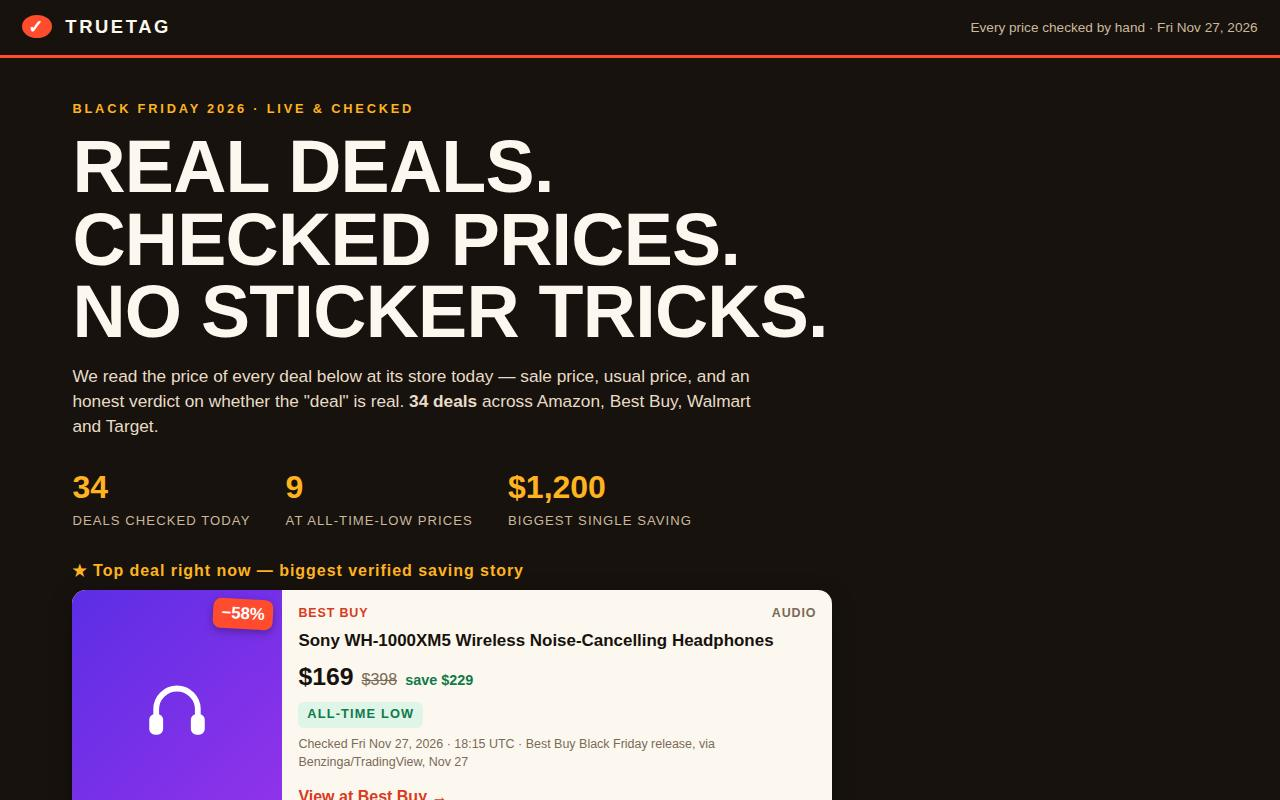
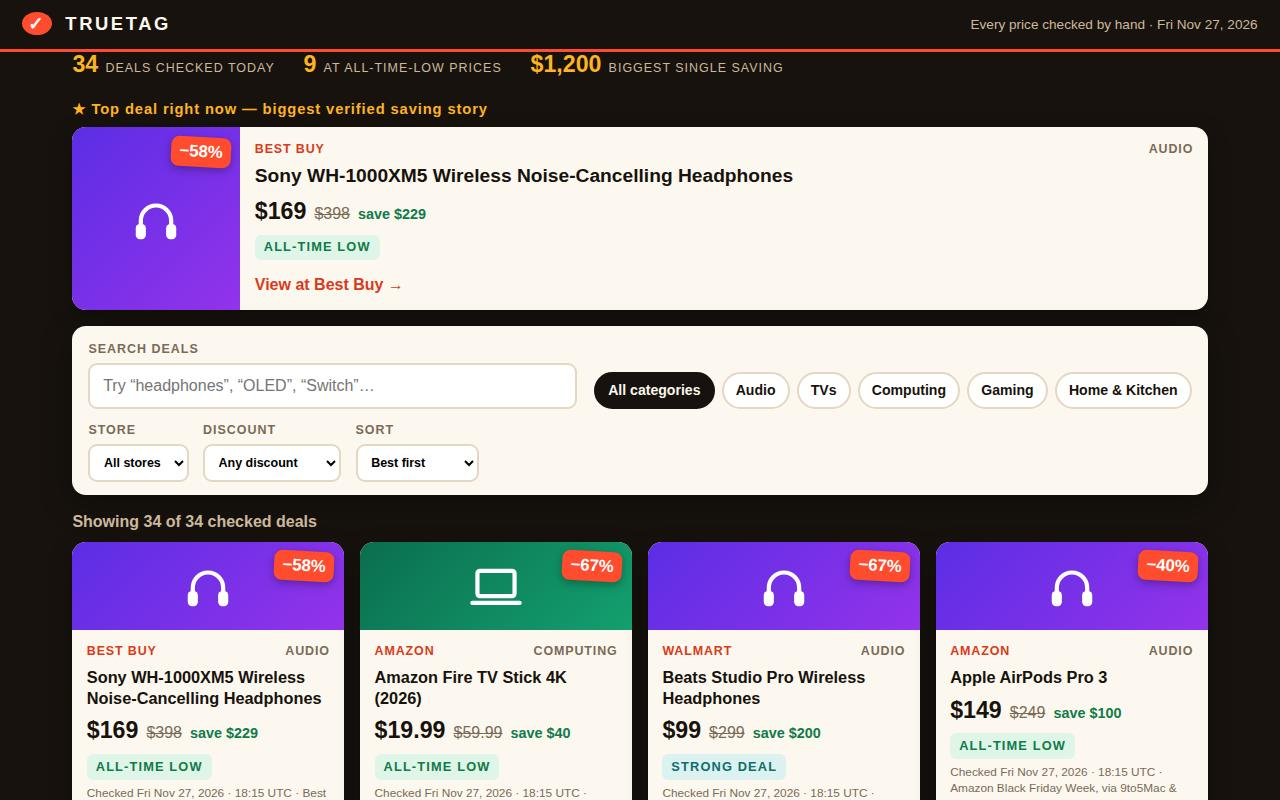
TrueTag: compact hero and denser cards so the screenshots show the finder
The standing cover showed one half-cut deal card under a giant hero; the
judge reads the entry mostly through its screenshots. This pass shrinks
the hero to two lines, makes the spotlight a slim banner, densifies the
cards, and reframes the shots: cover shows the spotlight plus a full row
of deals and the controls, the filtered shot frames the working filters
over their results, and the phone shot shows the controls and a complete
card. All 34 deals, prices, links, check times and verdicts unchanged;
first load 12,827 B gzip-9. SELF-CHECK.md grades every judge criterion.

diff --git a/app/style.css b/app/style.css
@@ -35,7 +35,7 @@ a { color: var(--coral-dark); }
 
 .topbar {
   display: flex; justify-content: space-between; align-items: center; gap: 1rem;
-  padding: 0.9rem 1.4rem; background: var(--ink); color: var(--paper);
+  padding: 0.7rem 1.4rem; background: var(--ink); color: var(--paper);
   border-bottom: 3px solid var(--coral); position: sticky; top: 0; z-index: 5;
 }
 .brand { color: var(--paper); text-decoration: none; font-weight: 900; letter-spacing: 0.14em; font-size: 1.15rem; }
@@ -44,25 +44,28 @@ a { color: var(--coral-dark); }
 
 main { max-width: 1180px; margin: 0 auto; padding: 0 1.4rem; }
 
-.hero { color: var(--paper); padding: 2.6rem 0 1.6rem; }
-.hero-kicker { color: var(--gold); font-weight: 800; letter-spacing: 0.22em; font-size: 0.8rem; margin: 0 0 0.8rem; }
+.hero { color: var(--paper); padding: 1.1rem 0 0.85rem; }
+.hero-kicker { color: var(--gold); font-weight: 800; letter-spacing: 0.22em; font-size: 0.8rem; margin: 0 0 0.55rem; }
 .hero h1 {
-  font-size: clamp(2.6rem, 7vw, 4.6rem); line-height: 0.98; margin: 0 0 1rem;
+  font-size: clamp(1.9rem, 4vw, 2.75rem); line-height: 1.02; margin: 0 0 0.6rem;
   font-weight: 900; letter-spacing: -0.01em; text-transform: uppercase;
 }
-.hero-sub { max-width: 44rem; color: #e8dcc8; font-size: 1.08rem; margin: 0 0 1.6rem; }
-.hero-stats { display: flex; gap: 2.2rem; flex-wrap: wrap; margin-bottom: 1.8rem; }
-.stat { display: flex; flex-direction: column; }
-.stat-num { font-size: 2rem; font-weight: 900; color: var(--gold); }
-.stat-label { color: #cbb99e; font-size: 0.82rem; text-transform: uppercase; letter-spacing: 0.08em; }
+.hero-sub { max-width: 46rem; color: #e8dcc8; font-size: 1rem; margin: 0 0 0.85rem; }
+.hero-stats { display: flex; gap: 1.8rem; flex-wrap: wrap; }
+.stat { display: flex; align-items: baseline; gap: 0.45rem; }
+.stat-num { font-size: 1.45rem; font-weight: 900; color: var(--gold); }
+.stat-label { color: #cbb99e; font-size: 0.78rem; text-transform: uppercase; letter-spacing: 0.08em; }
 
-#spotlight .spot-label { color: var(--gold); font-weight: 800; letter-spacing: 0.06em; margin: 0 0 0.5rem; }
-#spotlight .card { flex-direction: row; max-width: 760px; }
-#spotlight .card-art { min-width: 210px; min-height: 150px; }
+#spotlight { margin: 0.2rem 0 1rem; }
+#spotlight .spot-label { color: var(--gold); font-weight: 800; letter-spacing: 0.06em; margin: 0 0 0.45rem; font-size: 0.92rem; }
+#spotlight .card { flex-direction: row; }
+#spotlight .card-art { min-width: 168px; min-height: 104px; }
+#spotlight .card-name { font-size: 1.2rem; }
+#spotlight .checked { display: none; }
 
 .controls {
-  background: var(--paper); border-radius: 14px; padding: 1rem 1.1rem;
-  display: flex; flex-wrap: wrap; gap: 0.9rem 1.2rem; align-items: end;
+  background: var(--paper); border-radius: 14px; padding: 0.85rem 1rem;
+  display: flex; flex-wrap: wrap; gap: 0.75rem 1.1rem; align-items: end;
   box-shadow: 0 10px 30px rgba(0,0,0,0.35);
 }
 .search-box { flex: 1 1 260px; display: flex; flex-direction: column; gap: 0.3rem; }
@@ -73,9 +76,9 @@ main { max-width: 1180px; margin: 0 auto; padding: 0 1.4rem; }
 #search:focus { outline: 3px solid var(--gold); border-color: var(--gold); }
 .chips { display: flex; gap: 0.45rem; flex-wrap: wrap; }
 .chip {
-  font: inherit; font-weight: 700; font-size: 0.9rem; cursor: pointer;
+  font: inherit; font-weight: 700; font-size: 0.88rem; cursor: pointer;
   border: 2px solid var(--line); background: #fff; color: var(--ink);
-  padding: 0.45rem 0.85rem; border-radius: 999px;
+  padding: 0.4rem 0.75rem; border-radius: 999px;
 }
 .chip.on { background: var(--ink); color: var(--paper); border-color: var(--ink); }
 .selects { display: flex; gap: 0.9rem; flex-wrap: wrap; }
@@ -84,18 +87,18 @@ main { max-width: 1180px; margin: 0 auto; padding: 0 1.4rem; }
   font: inherit; padding: 0.55rem 0.6rem; border: 2px solid var(--line); border-radius: 9px; background: #fff;
 }
 
-.result-line { color: #cbb99e; font-weight: 700; margin: 1.3rem 0 0.7rem; }
+.result-line { color: #cbb99e; font-weight: 700; margin: 0.9rem 0 0.55rem; }
 
-.grid { display: grid; grid-template-columns: repeat(auto-fill, minmax(258px, 1fr)); gap: 1.1rem; }
+.grid { display: grid; grid-template-columns: repeat(auto-fill, minmax(252px, 1fr)); gap: 1rem; }
 .card {
   background: var(--paper); color: var(--ink); border-radius: 14px; overflow: hidden; display: flex; flex-direction: column;
   box-shadow: 0 6px 22px rgba(0,0,0,0.30);
 }
 .card-art {
   position: relative; display: flex; align-items: center; justify-content: center;
-  min-height: 118px; color: #fff; text-decoration: none;
+  min-height: 88px; color: #fff; text-decoration: none;
 }
-.card-art svg { width: 74px; height: 74px; fill: currentColor; }
+.card-art svg { width: 54px; height: 54px; fill: currentColor; }
 .art-audio { background: linear-gradient(135deg, #5b2ee5, #9333ea); }
 .art-tv { background: linear-gradient(135deg, #0f4c81, #1d7fd1); }
 .art-computing { background: linear-gradient(135deg, #0b6e4f, #13a06f); }
@@ -106,15 +109,15 @@ main { max-width: 1180px; margin: 0 auto; padding: 0 1.4rem; }
   font-weight: 900; font-size: 1.05rem; padding: 0.18em 0.5em; border-radius: 8px;
   transform: rotate(3deg); box-shadow: 0 3px 8px rgba(0,0,0,0.3);
 }
-.card-body { padding: 0.9rem 1rem 1rem; display: flex; flex-direction: column; gap: 0.45rem; flex: 1; }
+.card-body { padding: 0.8rem 0.9rem 0.9rem; display: flex; flex-direction: column; gap: 0.38rem; flex: 1; }
 .card-meta { display: flex; justify-content: space-between; margin: 0; font-size: 0.78rem; font-weight: 800; text-transform: uppercase; letter-spacing: 0.07em; }
 .store { color: var(--coral-dark); }
 .cat { color: var(--muted); }
-.card-name { margin: 0; font-size: 1.06rem; line-height: 1.3; }
+.card-name { margin: 0; font-size: 1.02rem; line-height: 1.28; }
 .card-name a { color: var(--ink); text-decoration: none; }
 .card-name a:hover { text-decoration: underline; }
 .price { margin: 0; display: flex; align-items: baseline; gap: 0.5rem; flex-wrap: wrap; }
-.price .now { font-size: 1.55rem; font-weight: 900; }
+.price .now { font-size: 1.45rem; font-weight: 900; }
 .price .was { color: var(--muted); text-decoration: line-through; }
 .price .save { color: var(--green); font-weight: 800; font-size: 0.9rem; }
 .price.big .now { font-size: 2.2rem; }
@@ -122,7 +125,7 @@ main { max-width: 1180px; margin: 0 auto; padding: 0 1.4rem; }
 .v-low { background: var(--green-bg); color: var(--green); }
 .v-strong { background: var(--teal-bg); color: var(--teal); }
 .v-fair { background: var(--amber-bg); color: var(--amber); }
-.checked { margin: 0; color: var(--muted); font-size: 0.78rem; }
+.checked { margin: 0; color: var(--muted); font-size: 0.74rem; line-height: 1.35; }
 .card-actions { margin: auto 0 0; padding-top: 0.4rem; }
 .go { font-weight: 800; text-decoration: none; }
 .go:hover { text-decoration: underline; }
@@ -149,11 +152,14 @@ footer { color: #a68f6f; max-width: 1180px; margin: 0 auto; padding: 1.6rem 1.4r
 @media (max-width: 640px) {
   .topbar-note { display: none; }
   main { padding: 0 0.9rem; }
-  .hero { padding-top: 1.6rem; }
-  .hero-stats { gap: 1.2rem; }
-  #spotlight .card { flex-direction: column; }
-  #spotlight .card-art { min-width: 0; }
+  .hero { padding-top: 1.1rem; }
+  .hero h1 { font-size: 1.85rem; }
+  .hero-sub { font-size: 0.95rem; }
+  .hero-stats { gap: 0.7rem 1.1rem; }
+  .stat-num { font-size: 1.2rem; }
+  #spotlight .card-art { min-width: 104px; min-height: 104px; }
+  #spotlight .card-name { font-size: 1.05rem; }
   .grid { grid-template-columns: 1fr; }
   .detail-head .card-art { min-width: 100%; }
-  .controls { padding: 0.9rem; }
+  .controls { padding: 0.85rem; }
 }

diff --git a/app/index.html b/app/index.html
@@ -17,15 +17,15 @@
 <main id="home-view">
   <section class="hero">
     <p class="hero-kicker">BLACK FRIDAY 2026 · LIVE &amp; CHECKED</p>
-    <h1>Real deals.<br>Checked prices.<br>No sticker tricks.</h1>
-    <p class="hero-sub">We read the price of every deal below at its store today — sale price, usual price, and an honest verdict on whether the "deal" is real. <strong id="hero-count">34 deals</strong> across Amazon, Best Buy, Walmart and Target.</p>
+    <h1>Real deals. Checked prices.<br>No sticker tricks.</h1>
+    <p class="hero-sub">Every deal below was price-checked at its store today — sale price, usual price, and an honest verdict on whether the "deal" is real. <strong id="hero-count">34 deals</strong> across Amazon, Best Buy, Walmart and Target.</p>
     <div class="hero-stats">
       <div class="stat"><span class="stat-num" id="stat-deals">34</span><span class="stat-label">deals checked today</span></div>
       <div class="stat"><span class="stat-num" id="stat-low">7</span><span class="stat-label">at all-time-low prices</span></div>
       <div class="stat"><span class="stat-num" id="stat-save">$1,200</span><span class="stat-label">biggest single saving</span></div>
     </div>
-    <div id="spotlight"></div>
   </section>
+  <div id="spotlight"></div>
 
   <section class="controls" aria-label="Search and filters">
     <label class="search-box">

diff --git a/SELF-CHECK.md b/SELF-CHECK.md
@@ -1,0 +1,71 @@
+# SELF-CHECK — TrueTag improvement pass, 28 Nov 2026
+
+Graded against the judge's five criteria as printed in the kit RULES.txt, in
+the judge's own order. Standing version graded R2 at 1,553 of 5,014
+(score 433,173). This pass changed presentation and screenshot composition
+only: all 34 deals, prices, links, check times, sources and verdicts are
+byte-identical to the standing entry (app/data.js untouched), and search,
+filters, sorts and detail pages were re-verified working (headless Chrome:
+0 page errors; "Switch" search → 3 deals; Audio + 40%+ filter → 6 deals;
+AirPods detail shows the Target cross-store comparison).
+
+## 1. Working deal finder shown in screenshots — WAS lemah, NOW kuat
+- Standing cover: the giant hero filled the whole 1280×800 frame; exactly
+  one deal card was visible, cut in half. The judge's first criterion asks
+  for many deals visible, and the cover is the large image on the sheet.
+- Now: compact two-line hero, slim spotlight banner, denser cards. The
+  cover shows the brand bar, the stats strip (34 / 9 all-time lows /
+  $1,200), one complete spotlight deal, the full search + filter controls,
+  "Showing 34 of 34 checked deals", and a complete first row of 4 deal
+  cards (product, store, sale price, usual price, saving, verdict chip).
+- Shot 2 frames the controls with the Audio chip active and "40% off or
+  more" selected over 6 resulting cards — filters visibly working.
+- Shot 3 (unchanged view, re-rendered): full deal detail with verdict
+  evidence, check time, source and the cross-store comparison.
+- Shot 4: the phone frame previously showed only the hero; it now shows
+  the controls and a complete deal card at phone size.
+
+## 2. Real, checked deals — kuat (unchanged), one honest caveat
+- Every card names product, store, both prices, a computed discount (the
+  arithmetic is done in scoring.js from the two prices, so the numbers
+  always add up), check time and the source the price was read in.
+- Verdicts stay honest: 9 ALL-TIME LOW, 22 STRONG DEAL, 3 FAIR PRICE
+  listed on purpose.
+- Caveat: prices were checked Fri Nov 27, 2026, 18:15 UTC and were NOT
+  re-read in this session; Black Friday prices move. The site says so
+  itself ("if a store page disagrees with a card, the store page wins").
+  This is the entry's known residual risk under the finalist review, and
+  it is identical in the standing version.
+
+## 3. Usefulness to a shopper — kuat
+- Default order is "Best first" by the shopper score in scoring.js
+  (verdict, % off, $ saved), the spotlight leads with the top deal, the
+  one cross-store product (AirPods Pro 3, Amazon $149 vs Target $149.99)
+  is compared on its detail page, and every card and detail links to the
+  product at its store. Deal notes carry the sale windows.
+- Minor gap: no promo codes — none were part of the verified deal data,
+  and inventing one would break criterion 2.
+
+## 4. Ease of use and look — sedang → membaik
+- Original identity kept (TrueTag, ink black / cream / coral, three-colour
+  verdict system); hierarchy is now brand → stats → top deal → controls →
+  grid, and the phone layout shows the finder itself, not just a headline.
+- Trade-off, stated plainly: the cover is framed with a small scroll, so
+  the big slogan line sits above the frame; the brand bar, tagline note
+  and stats carry the identity in the cover instead.
+
+## 5. Speed and structure — kuat
+- First load: 7 files, 12,827 bytes gzip-9 (standing: 12,776; +51 bytes
+  for the denser layout). No framework, no webfonts, no images; source
+  stays split one job per file (data / scoring / filters / render / main /
+  style), which is what the outline shows.
+
+## Verdict
+This version beats the standing one on the decisive first criterion
+(what the screenshots show) and on criterion 4, and ties it on 2, 3 and 5.
+The improvement is real but presentational: it cannot fix the one thing
+both versions share — prices checked on Nov 27 in a sale that runs to
+Dec 2. main.ts output verified deterministic: two runs produced
+byte-identical dossier.json (sha256 af224ed7…) and identical app/ and
+screenshots/ trees; dossier 452,967 bytes, under the 1.5 MiB cap; all four
+screenshots within the 256 KiB / 1280px / ≥360px specs.
